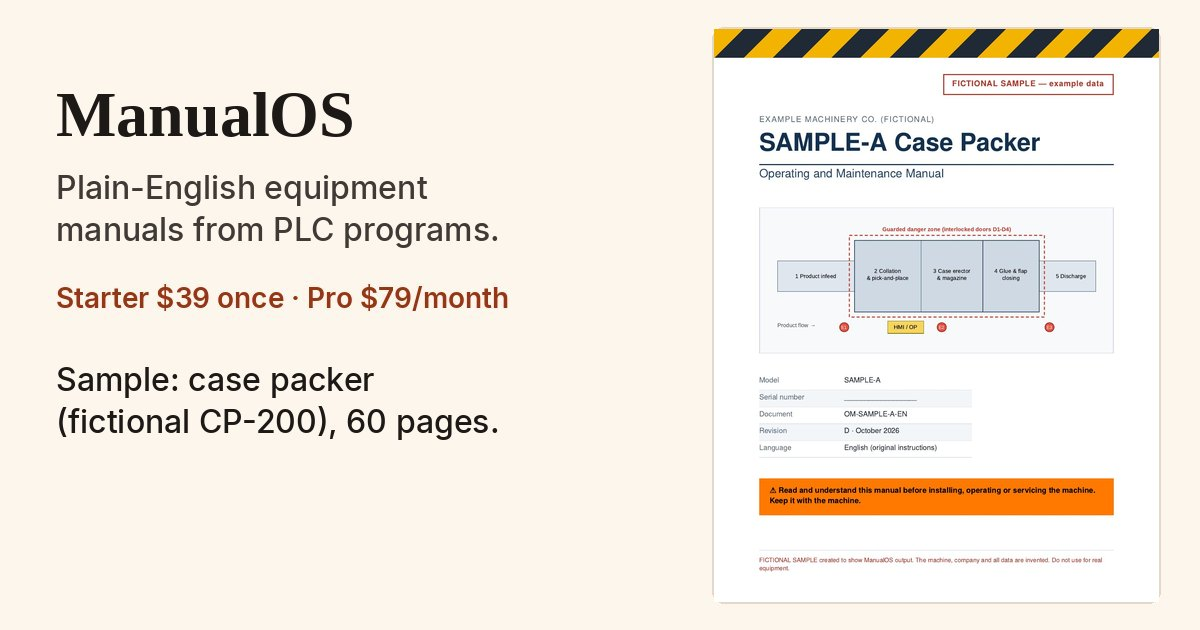
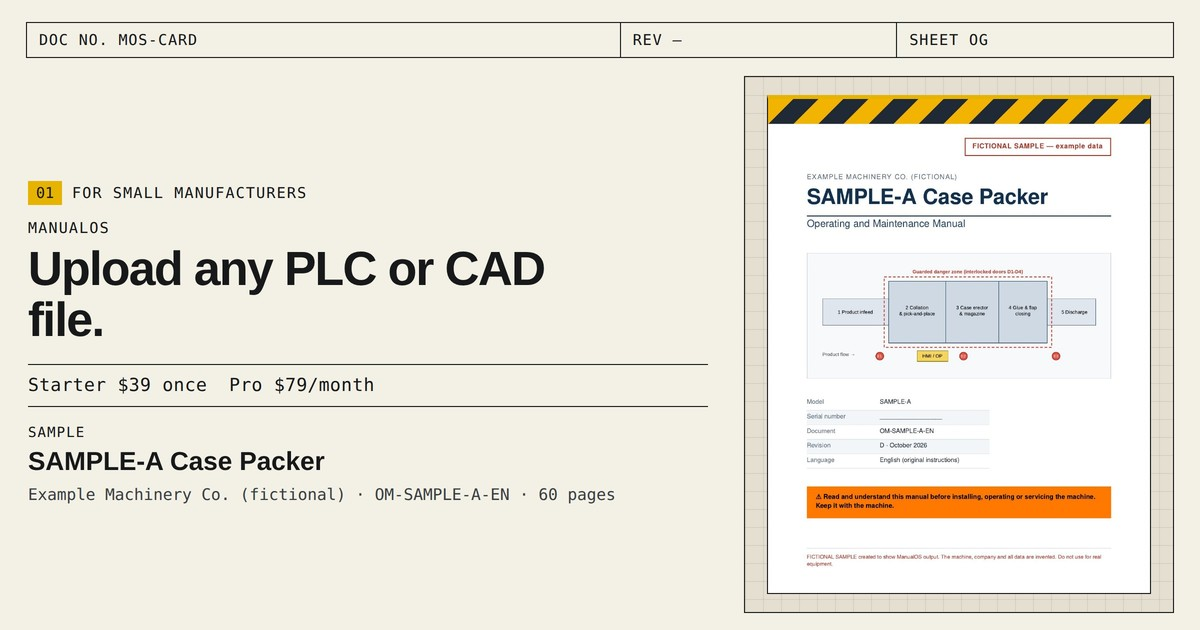
Lead the page with any PLC or CAD file.
Title, meta, and the hero open with that line. The social card is redrawn in the sheet style from the SAMPLE-A cover and stays 1200 by 630.

diff --git a/index.html b/index.html
@@ -3,27 +3,27 @@
 <head>
 <meta charset="UTF-8">
 <meta name="viewport" content="width=device-width, initial-scale=1">
-<title>ManualOS — Plain-English manuals from PLC programs</title>
-<meta name="description" content="Turn PLC programs into plain-English equipment manuals for small manufacturers, techs, and integrators. Starter is $39 once for 3 manuals. Pro is $79/month.">
+<title>ManualOS — Upload any PLC or CAD file</title>
+<meta name="description" content="Upload any PLC or CAD file. ManualOS writes a plain-English equipment manual for small manufacturers, techs, and integrators. Starter is $39 once for 3 manuals. Pro is $79/month.">
 <meta name="robots" content="index, follow">
 <link rel="canonical" href="https://manualos.com/">
 <meta property="og:site_name" content="ManualOS">
 <meta property="og:type" content="website">
 <meta property="og:locale" content="en_US">
 <meta property="og:url" content="https://manualos.com/">
-<meta property="og:title" content="ManualOS — Plain-English manuals from PLC programs">
-<meta property="og:description" content="Turn PLC programs into plain-English equipment manuals for small manufacturers, techs, and integrators. Starter is $39 once for 3 manuals. Pro is $79/month.">
+<meta property="og:title" content="ManualOS — Upload any PLC or CAD file">
+<meta property="og:description" content="Upload any PLC or CAD file. ManualOS writes a plain-English equipment manual for small manufacturers, techs, and integrators. Starter is $39 once for 3 manuals. Pro is $79/month.">
 <meta property="og:image" content="https://manualos.com/assets/og-image.jpg">
 <meta property="og:image:secure_url" content="https://manualos.com/assets/og-image.jpg">
 <meta property="og:image:type" content="image/jpeg">
 <meta property="og:image:width" content="1200">
 <meta property="og:image:height" content="630">
-<meta property="og:image:alt" content="ManualOS: plain-English equipment manuals from PLC programs. Starter is $39 once. Pro is $79 per month. The cover of a 60-page sample for the SAMPLE-A Case Packer, Example Machinery Co. (fictional), document OM-SAMPLE-A-EN, sits beside the title.">
+<meta property="og:image:alt" content="ManualOS. Upload any PLC or CAD file. Starter is $39 once. Pro is $79 per month. The cover of a 60-page sample for the SAMPLE-A Case Packer, Example Machinery Co. (fictional), document OM-SAMPLE-A-EN, sits beside the title.">
 <meta name="twitter:card" content="summary_large_image">
-<meta name="twitter:title" content="ManualOS — Plain-English manuals from PLC programs">
-<meta name="twitter:description" content="Turn PLC programs into plain-English equipment manuals for small manufacturers, techs, and integrators. Starter is $39 once for 3 manuals. Pro is $79/month.">
+<meta name="twitter:title" content="ManualOS — Upload any PLC or CAD file">
+<meta name="twitter:description" content="Upload any PLC or CAD file. ManualOS writes a plain-English equipment manual for small manufacturers, techs, and integrators. Starter is $39 once for 3 manuals. Pro is $79/month.">
 <meta name="twitter:image" content="https://manualos.com/assets/og-image.jpg">
-<meta name="twitter:image:alt" content="ManualOS: plain-English equipment manuals from PLC programs. Starter is $39 once. Pro is $79 per month. The cover of a 60-page sample for the SAMPLE-A Case Packer, Example Machinery Co. (fictional), document OM-SAMPLE-A-EN, sits beside the title.">
+<meta name="twitter:image:alt" content="ManualOS. Upload any PLC or CAD file. Starter is $39 once. Pro is $79 per month. The cover of a 60-page sample for the SAMPLE-A Case Packer, Example Machinery Co. (fictional), document OM-SAMPLE-A-EN, sits beside the title.">
 <link rel="icon" href="/favicon.ico" sizes="32x32">
 <meta name="theme-color" content="#f3f0e6">
 <link rel="preload" href="/assets/fonts/ibm-plex-sans-600.woff2" as="font" type="font/woff2" crossorigin>
@@ -181,7 +181,7 @@ figcaption{padding:.6rem .7rem .75rem;font-size:.92rem;border-top:1px solid var(
       "name": "ManualOS",
       "url": "https://manualos.com/",
       "email": "hello@manualos.com",
-      "description": "ManualOS turns PLC programs into plain-English equipment manuals for small manufacturers, maintenance technicians, and integrators.",
+      "description": "Upload any PLC or CAD file. ManualOS writes a plain-English equipment manual for small manufacturers, maintenance technicians, and integrators.",
       "logo": {
         "@type": "ImageObject",
         "url": "https://manualos.com/assets/logo.png",
@@ -196,7 +196,7 @@ figcaption{padding:.6rem .7rem .75rem;font-size:.92rem;border-top:1px solid var(
       "operatingSystem": "Web",
       "url": "https://manualos.com/",
       "image": "https://manualos.com/assets/og-image.jpg",
-      "description": "ManualOS turns PLC programs into plain-English equipment manuals for small manufacturers, maintenance technicians, and integrators.",
+      "description": "Upload any PLC or CAD file. ManualOS writes a plain-English equipment manual for small manufacturers, maintenance technicians, and integrators.",
       "publisher": { "@id": "https://manualos.com/#organization" },
       "offers": [
         {
@@ -292,9 +292,9 @@ figcaption{padding:.6rem .7rem .75rem;font-size:.92rem;border-top:1px solid var(
     </div>
     <div class="hero-grid">
       <p class="kicker"><span class="idx">01</span> For small manufacturers</p>
-      <h1 id="hero-title">Turn a PLC program into a manual the crew can use.</h1>
+      <h1 id="hero-title">Upload any PLC or CAD file.</h1>
       <div class="hero-rest">
-        <p class="lede">ManualOS reads the PLC export you already have and writes a plain-English equipment manual. Built for maintenance techs and integrators, too. Starter is $39 once for 3 manuals. Pro is $79 a month for unlimited manuals.</p>
+        <p class="lede">ManualOS writes a plain-English equipment manual from it. Built for maintenance techs and integrators, too. Starter is $39 once for 3 manuals. Pro is $79 a month for unlimited manuals.</p>
         <div class="hero-cta">
           <a class="btn btn-primary" href="#pricing">See pricing</a>
           <a class="btn btn-ghost" href="#sample">View a sample manual</a>
@@ -664,7 +664,7 @@ figcaption{padding:.6rem .7rem .75rem;font-size:.92rem;border-top:1px solid var(
 <footer class="site-footer">
   <div class="footer-inner">
     <p class="footer-brand">ManualOS</p>
-    <p>Plain-English equipment manuals from the PLC program you already have.</p>
+    <p>Plain-English equipment manuals. Upload any PLC or CAD file.</p>
     <nav class="footer-nav" aria-label="Footer">
       <a href="#how">How it works</a>
       <a href="#sample">Sample</a>
